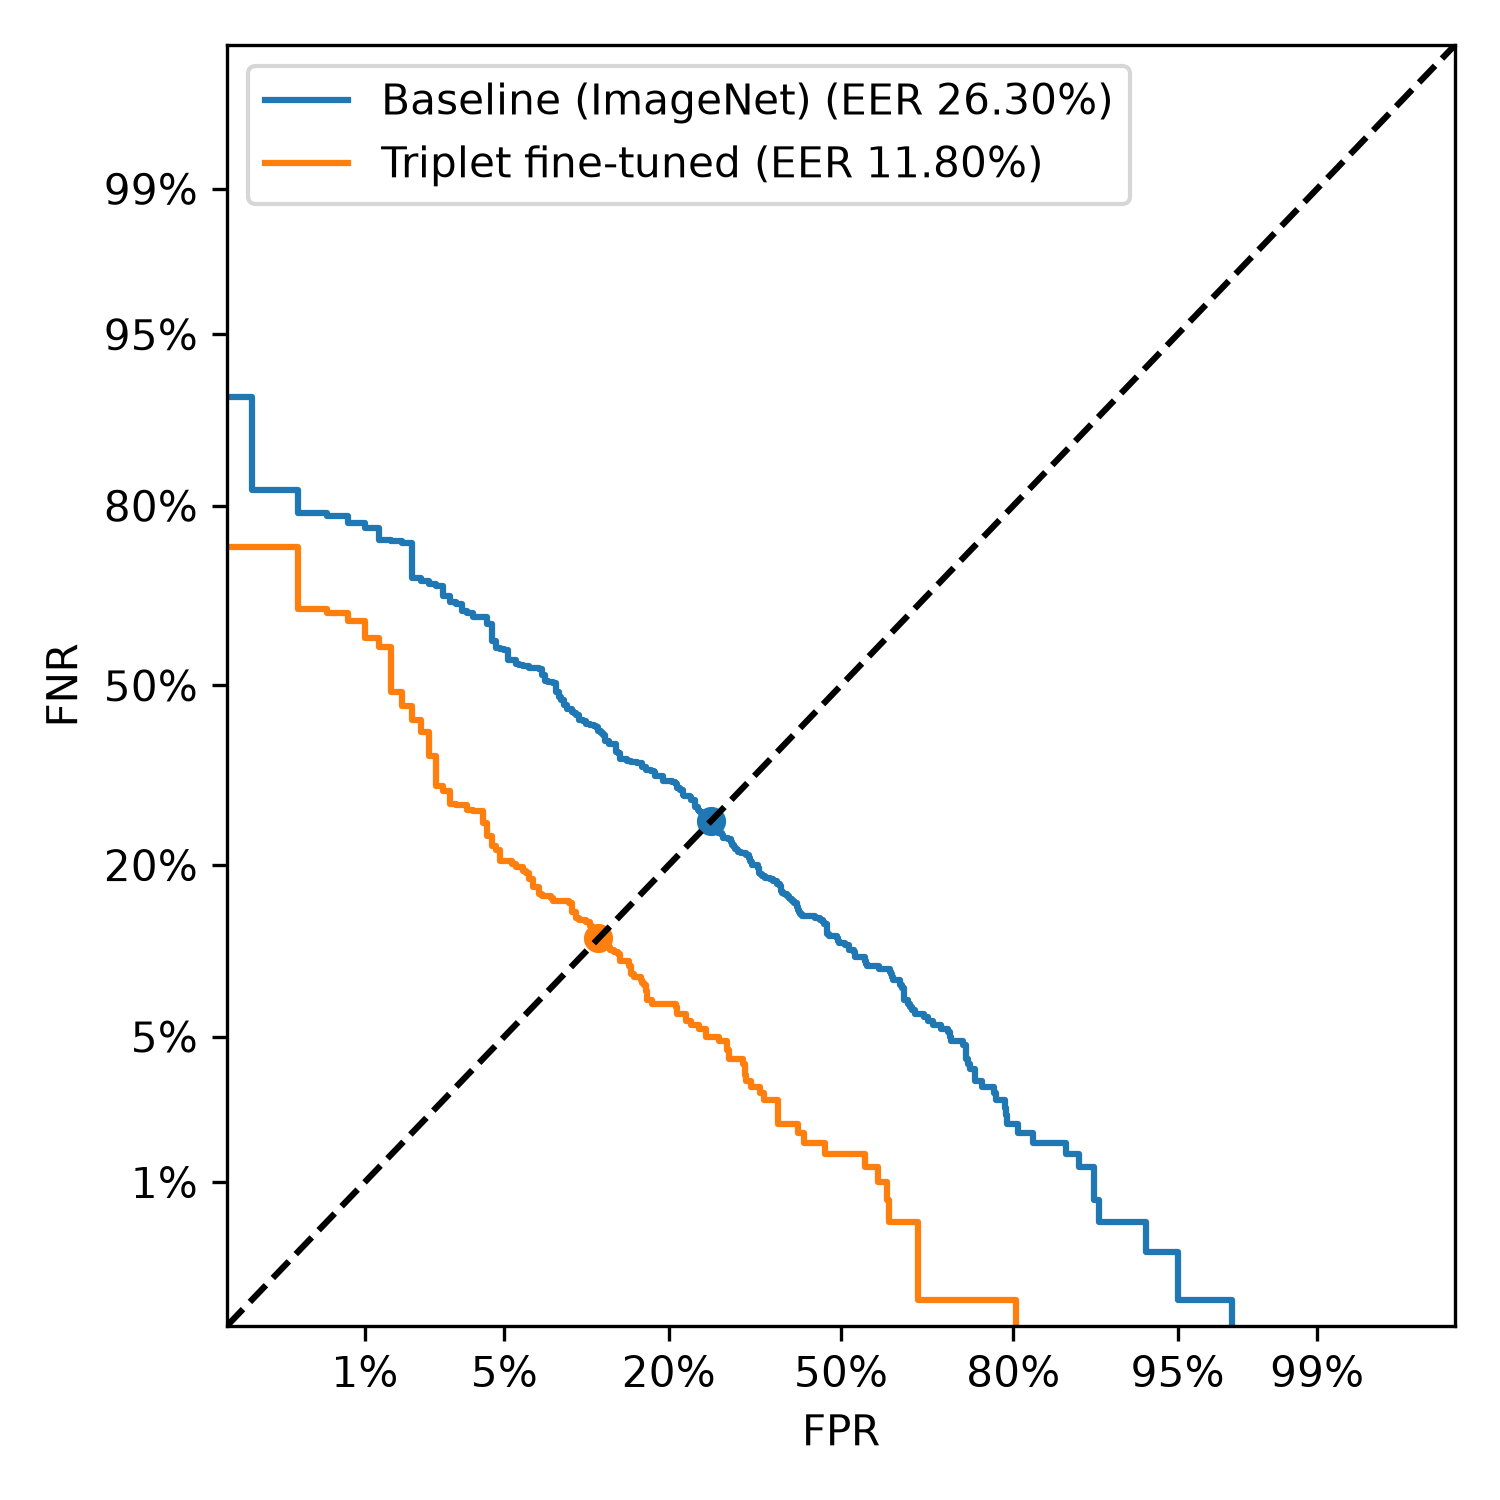
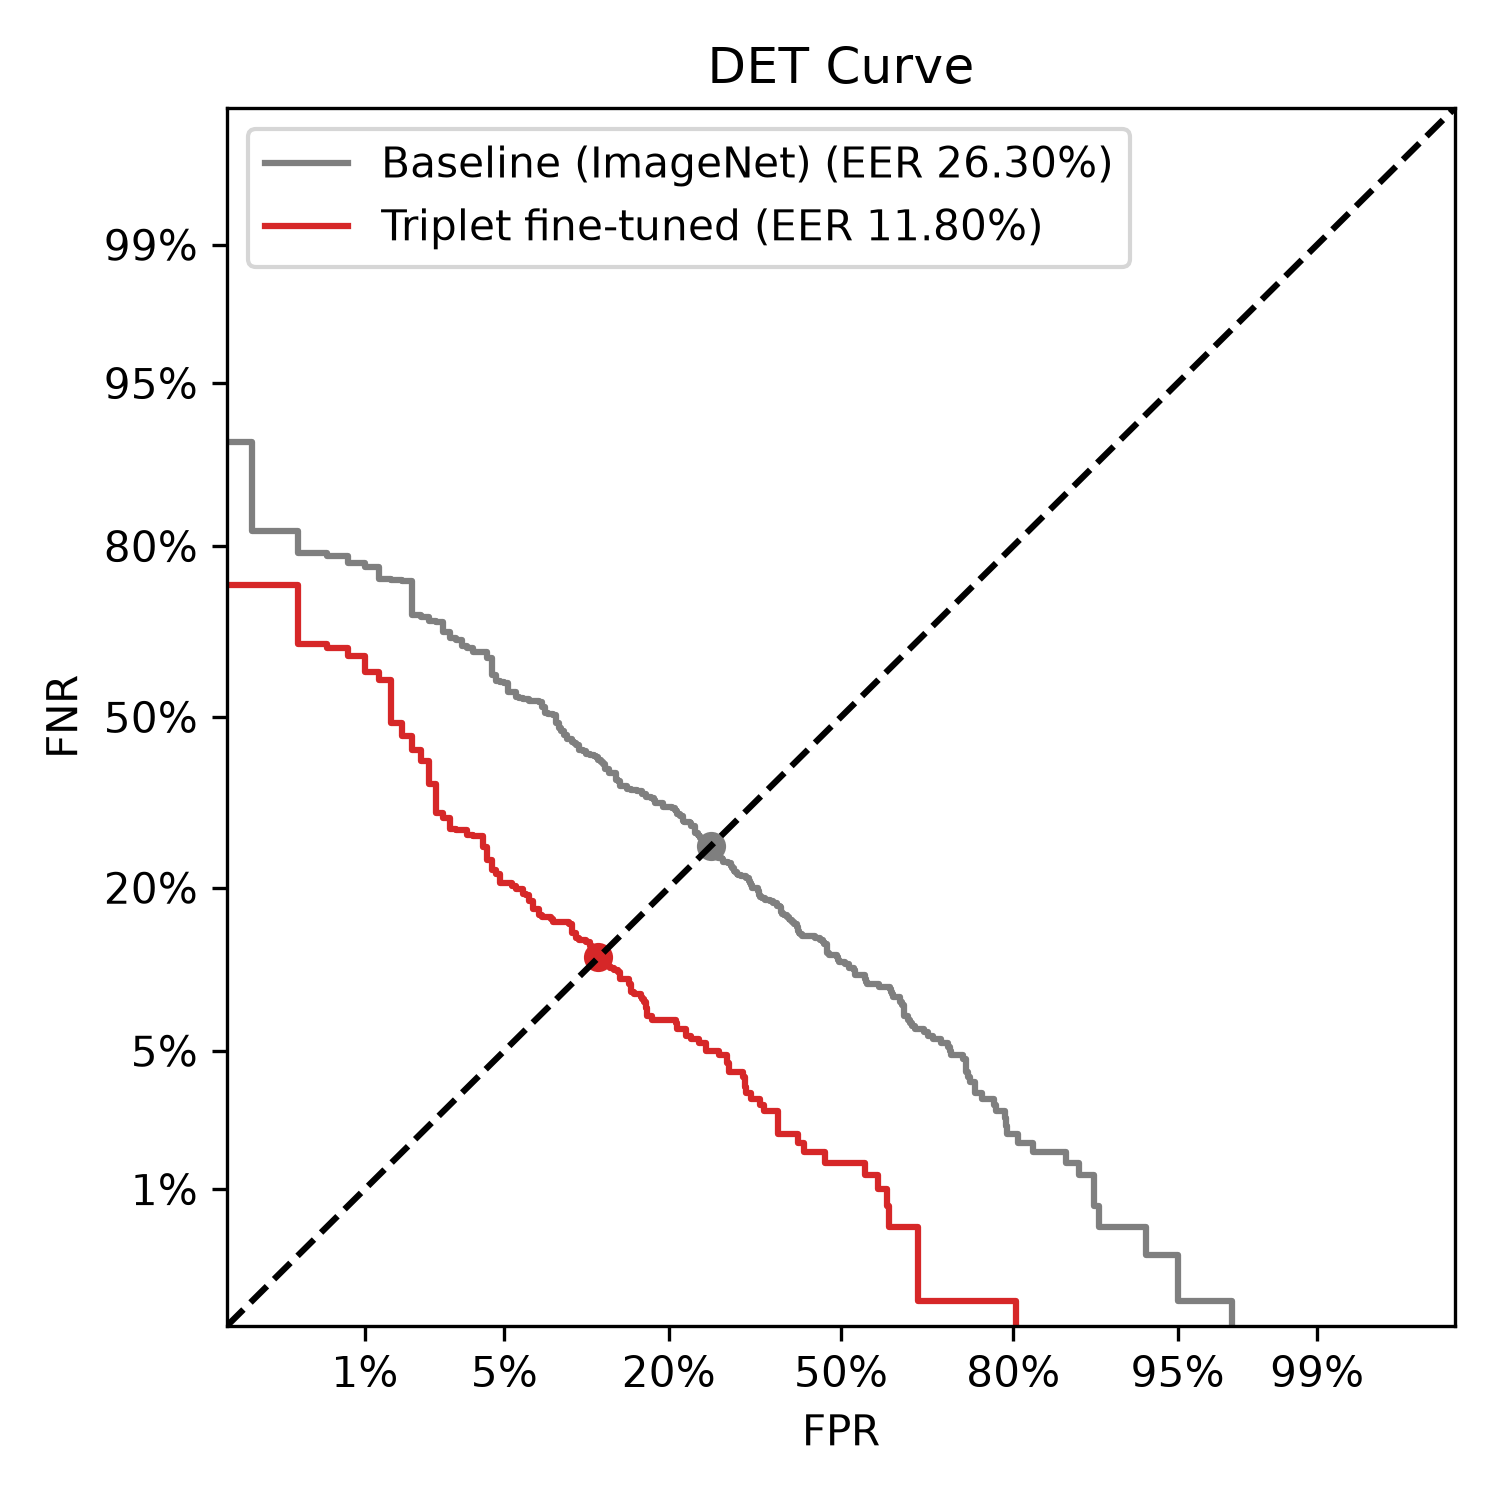
plots.py: per-model colors (baseline gray, triplet red), titles; add roc_det.png
- model colors kept separate from Same/Diff histogram colors
- histogram: suptitle, per-panel x labels, title colored by model
- ROC/DET: titles, model colors; EER points match curve colors
- figures/roc_det.png: ROC (a) and DET (b) side by side

diff --git a/plots.py b/plots.py
@@ -20,8 +20,7 @@ from baseline import compute_eer, RESULTS_DIR
 
 # 상수 설정
 FIG_DIR = Path(__file__).parent / "figures"
-RUNS = [("Baseline (ImageNet)", "baseline.npz"), ("Triplet fine-tuned", "trained.npz")]
-
+RUNS = [("Baseline (ImageNet)", "baseline.npz", "tab:gray"), ("Triplet fine-tuned", "trained.npz", "tab:red")]
 
 # 결과 불러오는 함수
 #   npz를 np.load로 열어 scores, labels를 numpy 배열로 반환
@@ -34,7 +33,7 @@ def plot_hist():
     fig, axes = plt.subplots(1, 2, figsize=(10, 4), sharex=True, sharey=True)
     bins = np.linspace(0.3, 1.0, 30)
 
-    for ax, (name, fname) in zip(axes, RUNS):
+    for ax, (name, fname, color) in zip(axes, RUNS):
         scores, labels = load_npz(fname)
         eer, threshold = compute_eer(scores, labels)
 
@@ -59,10 +58,12 @@ def plot_hist():
         texts = [t.get_text() for t in legend.get_texts()] + [line.get_label()]
         ax.legend(handles, texts)
 
-        ax.set_title(f"{name} (EER {eer*100:.2f}%)")
+        ax.set_title(f"{name} (EER {eer*100:.2f}%)", color=color)
+        ax.set_xlabel("cosine similarity")
 
-    fig.supxlabel("cosine similarity")
-
+    # fig.supxlabel("cosine similarity")
+    fig.suptitle("Cosine similarity of same / different pairs")
+    
     fig.tight_layout()
     fig.savefig(FIG_DIR / "hist_kde.png", dpi=300)
 
@@ -78,20 +79,21 @@ def plot_hist():
 def plot_roc():
     fig, ax = plt.subplots(figsize=(5, 5))
 
-    for name, fname in RUNS:
+    for name, fname, color in RUNS:
         scores, labels = load_npz(fname)
         eer, threshold = compute_eer(scores, labels)        
         
         fpr, tpr, _ = roc_curve(labels, scores)
         roc_auc = auc(fpr, tpr)
 
-        ax.plot(fpr, tpr, label=f"{name} (AUC {roc_auc:.3f}, EER {eer*100:.2f}%)")
+        ax.plot(fpr, tpr, label=f"{name} (AUC {roc_auc:.3f}, EER {eer*100:.2f}%)", color=color)
         ax.set_xlabel("FPR")
         ax.set_ylabel("TPR")
         
     ax.plot([0, 1], [0, 1], "k--", label="Chance")
     ax.legend(loc="lower right")
 
+    ax.set_title("ROC Curve")
     fig.tight_layout()
     fig.savefig(FIG_DIR / "roc.png", dpi=300)
 
@@ -101,11 +103,11 @@ def plot_roc():
 def plot_det():
     fig, ax = plt.subplots(figsize=(5,5))
 
-    for name, fname in RUNS:
+    for name, fname, color in RUNS:
         scores, labels = load_npz(fname)
         eer, _ = compute_eer(scores, labels)
 
-        disp = DetCurveDisplay.from_predictions(labels, scores, ax=ax, name=f"{name} (EER {eer*100:.2f}%)")
+        disp = DetCurveDisplay.from_predictions(labels, scores, ax=ax, name=f"{name} (EER {eer*100:.2f}%)", color=color)
         color = disp.line_.get_color()
 
         ax.plot(norm.ppf(eer), norm.ppf(eer), "o", color=color)
@@ -113,6 +115,7 @@ def plot_det():
     # y=x 그리기
     ax.plot(ax.get_xlim(), ax.get_xlim(), "k--")
 
+    ax.set_title("DET Curve")
     ax.set_xlabel("FPR")
     ax.set_ylabel("FNR")
     ax.legend()
